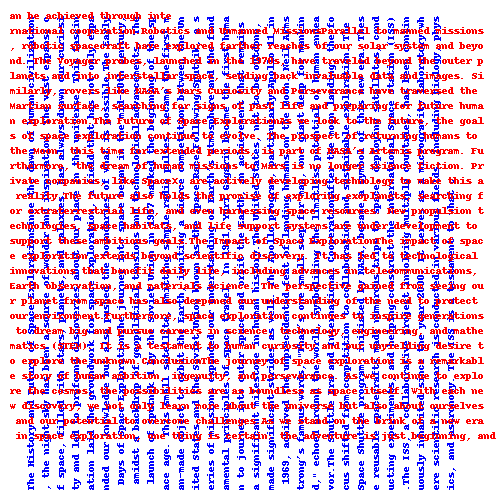
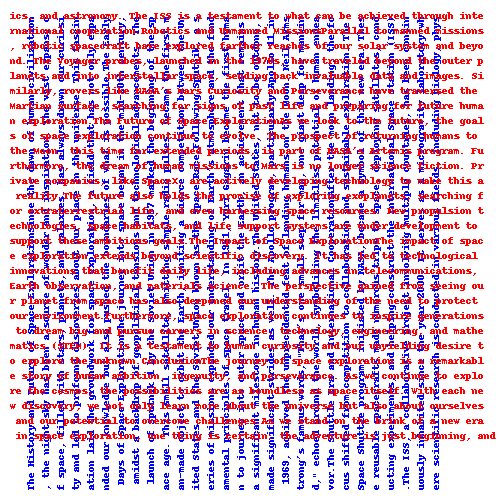
Created a new \n and instead count the number of lines first

diff --git a/Crossed_Letter_Main.py b/Crossed_Letter_Main.py
@@ -70,10 +70,15 @@ def text_clean(text):
         if i % 80 == 0:
             cleaned_text = cleaned_text[:i] + '\n' + cleaned_text[i:]
     
+    # Count the total number of lines
+    total_lines = len(cleaned_text.split('\n'))
+    print(total_lines)
     # Divide the cleaned_text into two halves
-    half_length = len(cleaned_text) // 2
-    cleaned_text_1 = cleaned_text[:half_length]
-    cleaned_text_2 = cleaned_text[half_length:]
+    half_length = total_lines // 2
+    cleaned_text_lines = cleaned_text.split('\n')
+
+    cleaned_text_1 = '\n'.join(cleaned_text_lines[:half_length])
+    cleaned_text_2 = '\n'.join(cleaned_text_lines[half_length:])
     
     return cleaned_text_1, cleaned_text_2
 
@@ -129,7 +134,7 @@ def main():
 
     #clean text for generation
     text_1, text_2 = text_clean(text)
-    print(text_1)
+    print(text_1, '\n')
     print(text_2)
     # Generate crossed letter
     generate_crossed_letter(text_1, text_2)
